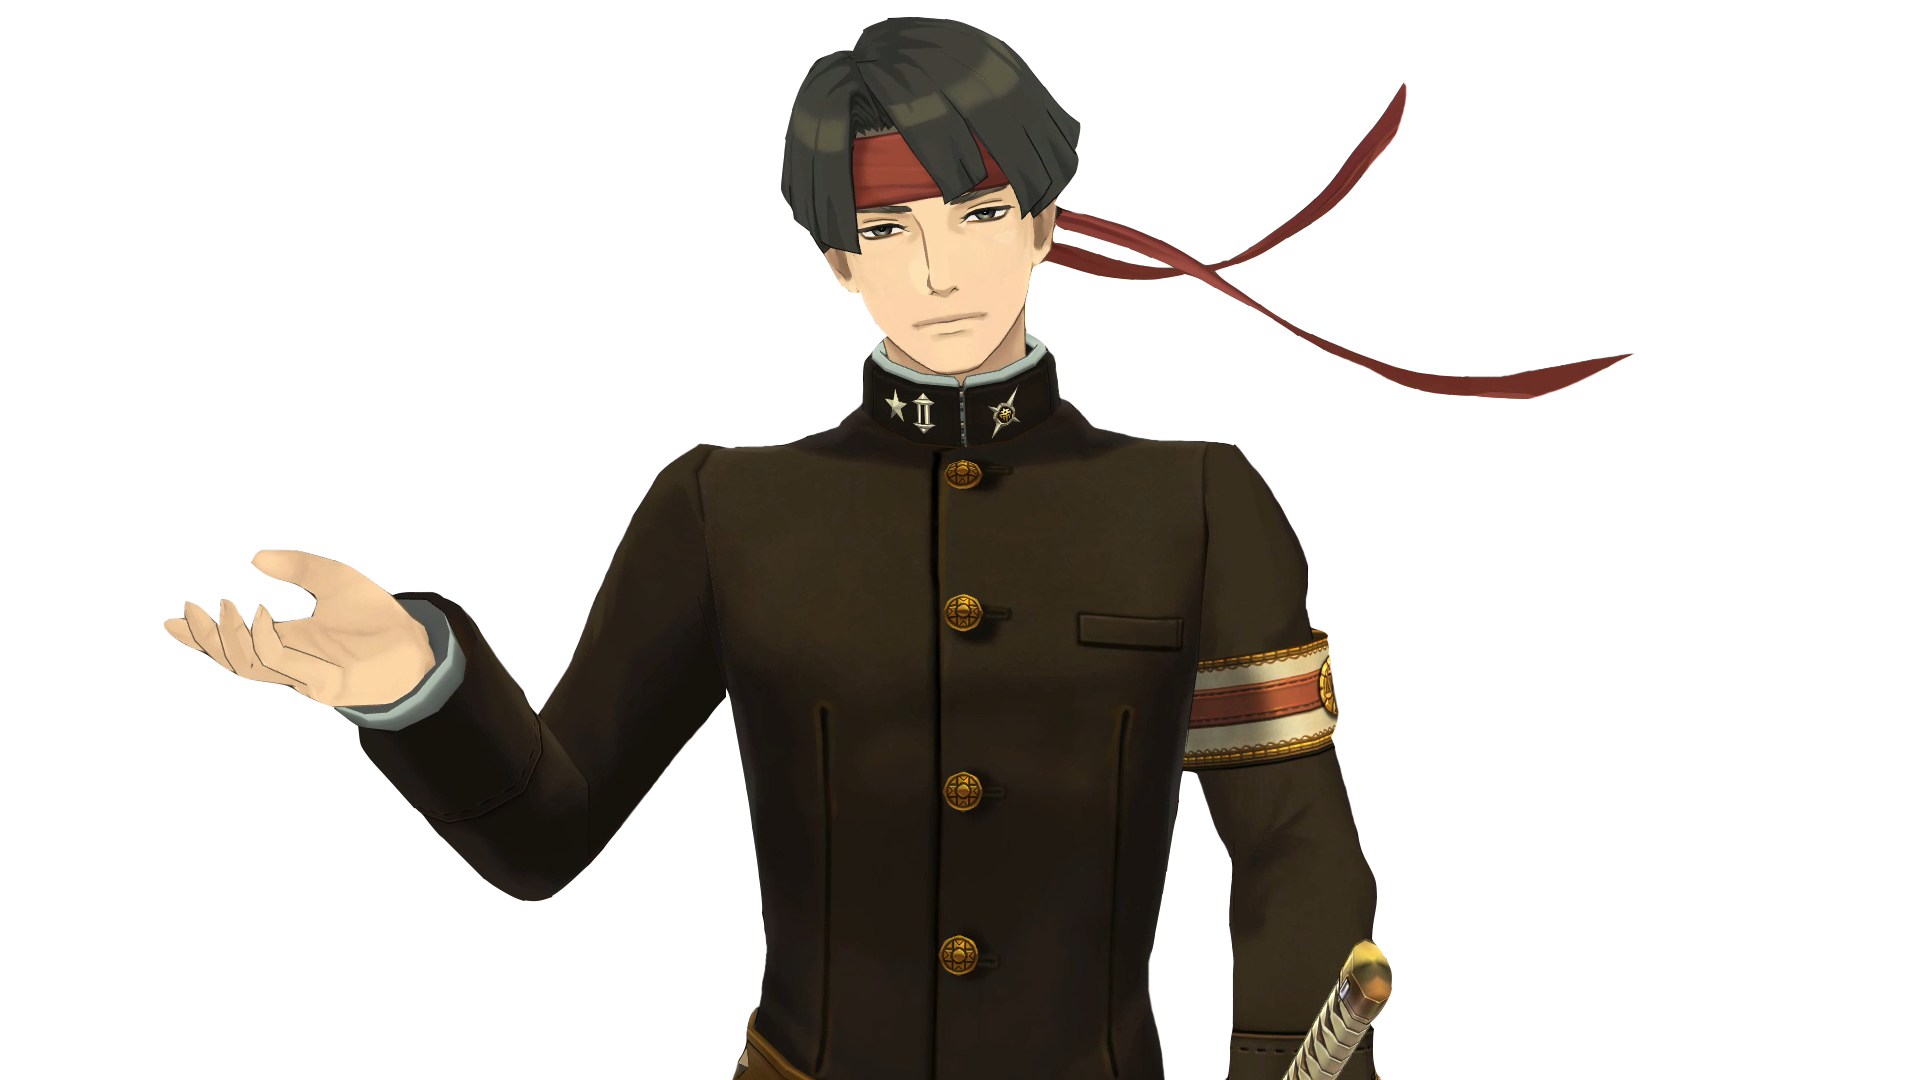
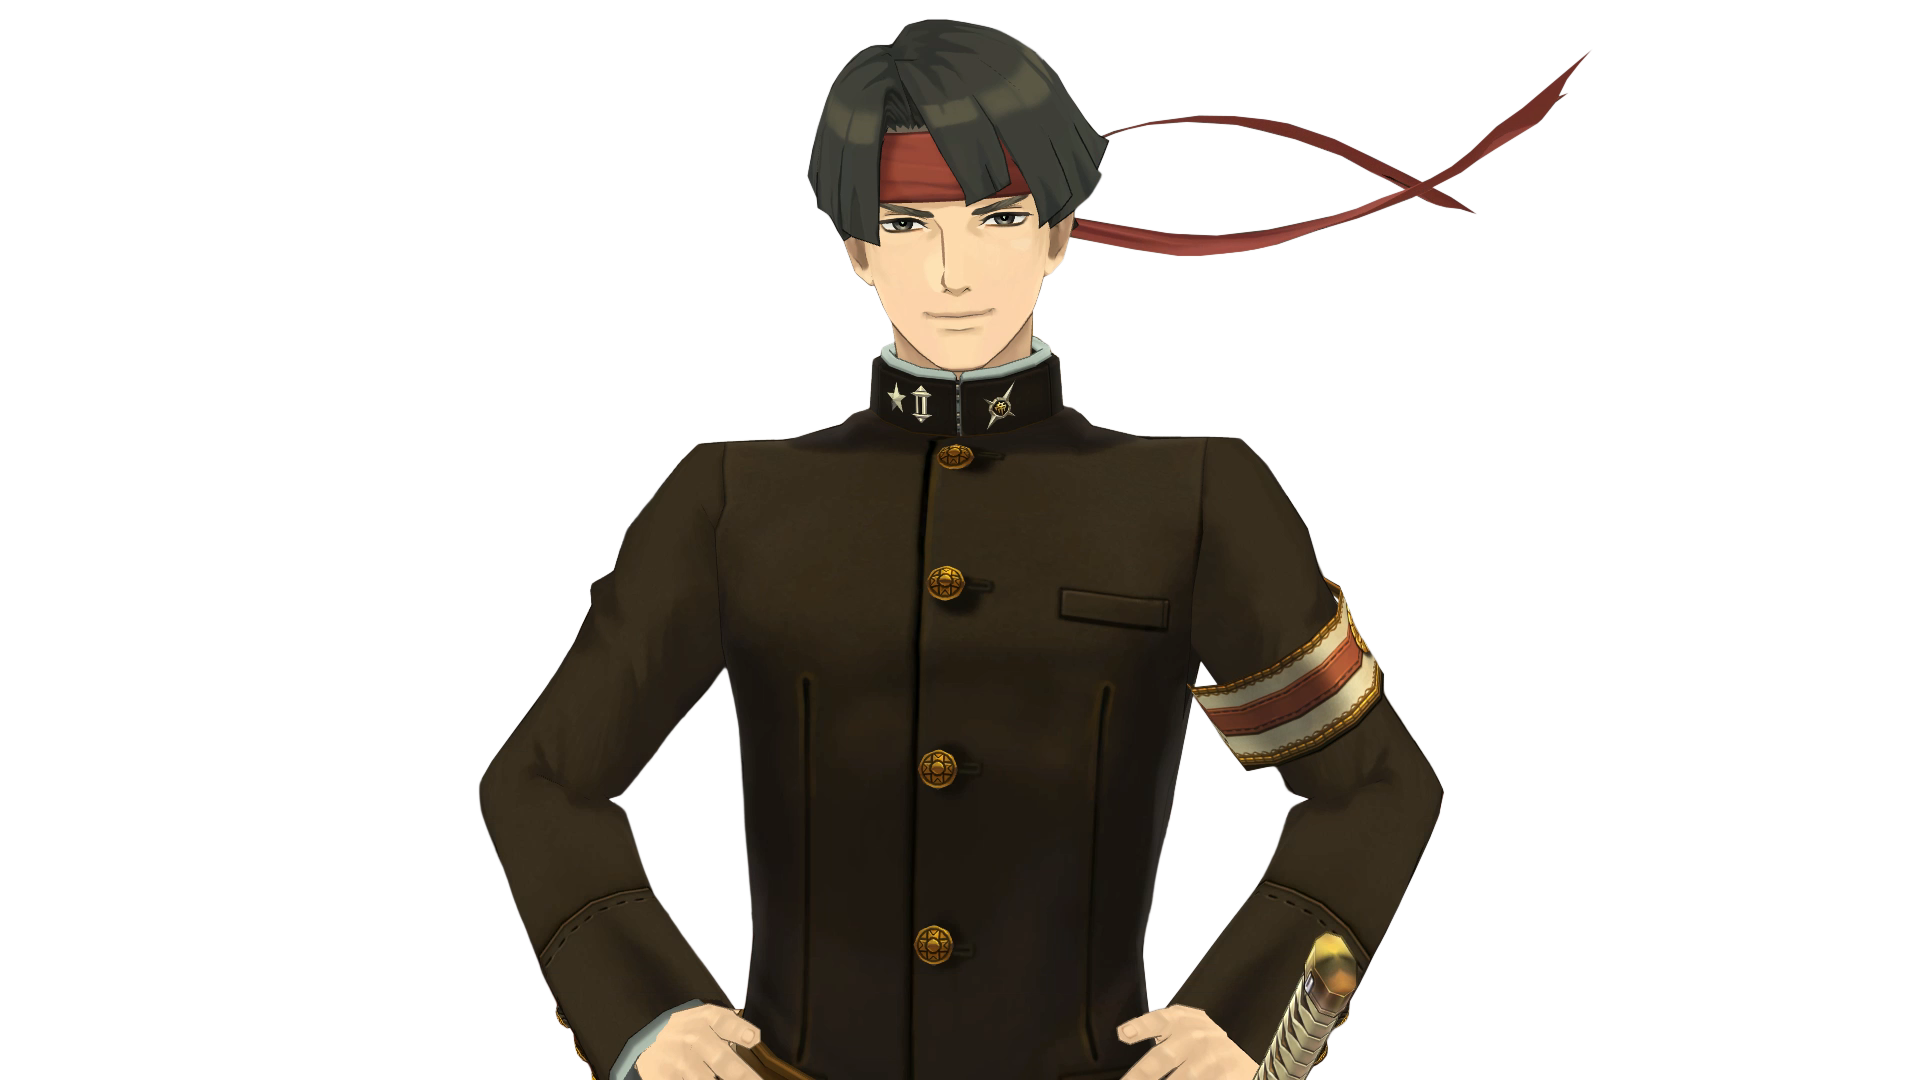
Added new Kazuma poses

diff --git a/characters.js b/characters.js
@@ -23,6 +23,7 @@ let characters = [
   theme: 'https://open.spotify.com/embed/track/6t74To2T8PUd6k1dbSu10D?utm_source=generator',
   tags: [],
   lastUpdated: null,
+  posesAddedOnLastUpdate: 0,
 },
 
 {
@@ -35,8 +36,8 @@ let characters = [
   variant: 'default outfit',
   theme: 'https://open.spotify.com/embed/track/1QUX7xOPs80O5tiQb3MPqd?utm_source=generator',
   tags: ['homumiko'],
-  lastUpdated: 'Thu Mar 02 2023',
-  posesAddedOnLastUpdate: 2,
+  lastUpdated: null,
+  posesAddedOnLastUpdate: 0,
 },
 {
   name: 'Herlock Sholmes',
@@ -49,6 +50,7 @@ let characters = [
   theme: 'https://open.spotify.com/embed/track/5FQuOO8w56VPX1tJwaPKx8?utm_source=generator',
   tags: ['homumiko'],
   lastUpdated: null,
+  posesAddedOnLastUpdate: 0,
 },
 
 {
@@ -61,6 +63,7 @@ let characters = [
   theme: 'https://open.spotify.com/embed/track/09pXZRySXfq6Z17YiVnOJC?utm_source=generator',
   tags: [],
   lastUpdated: null,
+  posesAddedOnLastUpdate: 0,
 },
 
 {
@@ -73,6 +76,7 @@ let characters = [
   theme: 'https://open.spotify.com/embed/track/5OmhUtWkaW7czq8v42yjIg?utm_source=generator',
   tags: [],
   lastUpdated: null,
+  posesAddedOnLastUpdate: 0,
 },
 
 {
@@ -85,6 +89,7 @@ let characters = [
   theme: 'https://open.spotify.com/embed/track/3oCMdfOMvnlS9BBAZ2YBQ5?utm_source=generator',
   tags: [],
   lastUpdated: null,
+  posesAddedOnLastUpdate: 0,
 },
 
 {
@@ -97,6 +102,7 @@ let characters = [
   theme: 'https://open.spotify.com/embed/track/657DqxHnOmnX3ZRJlbs9xZ?utm_source=generator',
   tags: [],
   lastUpdated: null,
+  posesAddedOnLastUpdate: 0,
 },
 
 {
@@ -109,6 +115,7 @@ let characters = [
   theme: 'https://open.spotify.com/embed/track/582mS91YcS5PHaTx5LUPn4?utm_source=generator',
   tags: [],
   lastUpdated: null,
+  posesAddedOnLastUpdate: 0,
 },
 
 {
@@ -121,6 +128,7 @@ let characters = [
   theme: 'https://open.spotify.com/embed/track/0hWRHYklo8CRyV8BxVQugG?utm_source=generator',
   tags: [],
   lastUpdated: null,
+  posesAddedOnLastUpdate: 0,
 },
 
 {
@@ -135,6 +143,7 @@ let characters = [
   theme: 'https://open.spotify.com/embed/track/7rePNo1I17JmU49JX6rbnE?utm_source=generator',
   tags: ['homumiko'],
   lastUpdated: null,
+  posesAddedOnLastUpdate: 0,
 },
 
 // {
@@ -160,6 +169,7 @@ let characters = [
   theme: 'https://open.spotify.com/embed/track/1QBM9EnE2HiyIvEL1vz8U6?utm_source=generator',
   tags: [],
   lastUpdated: null,
+  posesAddedOnLastUpdate: 0,
 },
 
 {
@@ -171,6 +181,7 @@ let characters = [
   images: 3,
   tags: [],
   lastUpdated: null,
+  posesAddedOnLastUpdate: 0,
 },
 
 
@@ -184,6 +195,7 @@ let characters = [
   theme: 'https://open.spotify.com/embed/track/3c4rqLvhHImiVKNPD0IN1V?utm_source=generator',
   tags: [],
   lastUpdated: null,
+  posesAddedOnLastUpdate: 0,
 },
 
 {
@@ -196,6 +208,7 @@ let characters = [
   theme: 'https://open.spotify.com/embed/track/3R1YvtpoUWBWy6OGd92nU0?utm_source=generator',
   tags: [],
   lastUpdated: null,
+  posesAddedOnLastUpdate: 0,
 },
 
 {
@@ -207,6 +220,7 @@ let characters = [
   images: 1,
   tags: [],
   lastUpdated: null,
+  posesAddedOnLastUpdate: 0,
 },
 
 {
@@ -218,6 +232,7 @@ let characters = [
   images: 1,
   tags: [],
   lastUpdated: null,
+  posesAddedOnLastUpdate: 0,
 },
 
 {
@@ -230,6 +245,7 @@ let characters = [
   theme: 'https://open.spotify.com/embed/track/6x6OrJ2G3rdwTyYVFuezBf?utm_source=generator',
   tags: [],
   lastUpdated: null,
+  posesAddedOnLastUpdate: 0,
 },
 
 {
@@ -242,6 +258,7 @@ let characters = [
   theme: 'https://open.spotify.com/embed/track/4g9GzmDyca2VZg7j5kx6AT?utm_source=generator',
   tags: [],
   lastUpdated: null,
+  posesAddedOnLastUpdate: 0,
 },
 
 {
@@ -250,10 +267,11 @@ let characters = [
   gender: 'male',
   nationality: 'japanese',
   appearsin: [true,false,false,false,false,false,false,true,true,true],
-  images: 1,
+  images: 4,
   theme: 'https://open.spotify.com/embed/track/4qiFdo2jEF4AcZzj8LxPUP?utm_source=generator',
   tags: [],
-  lastUpdated: null,
+  lastUpdated: "Fri Mar 03 2023",
+  posesAddedOnLastUpdate: 0,
 },
 
 {
@@ -265,6 +283,7 @@ let characters = [
   images: 3,
   tags: [],
   lastUpdated: null,
+  posesAddedOnLastUpdate: 0,
 },
 
 
